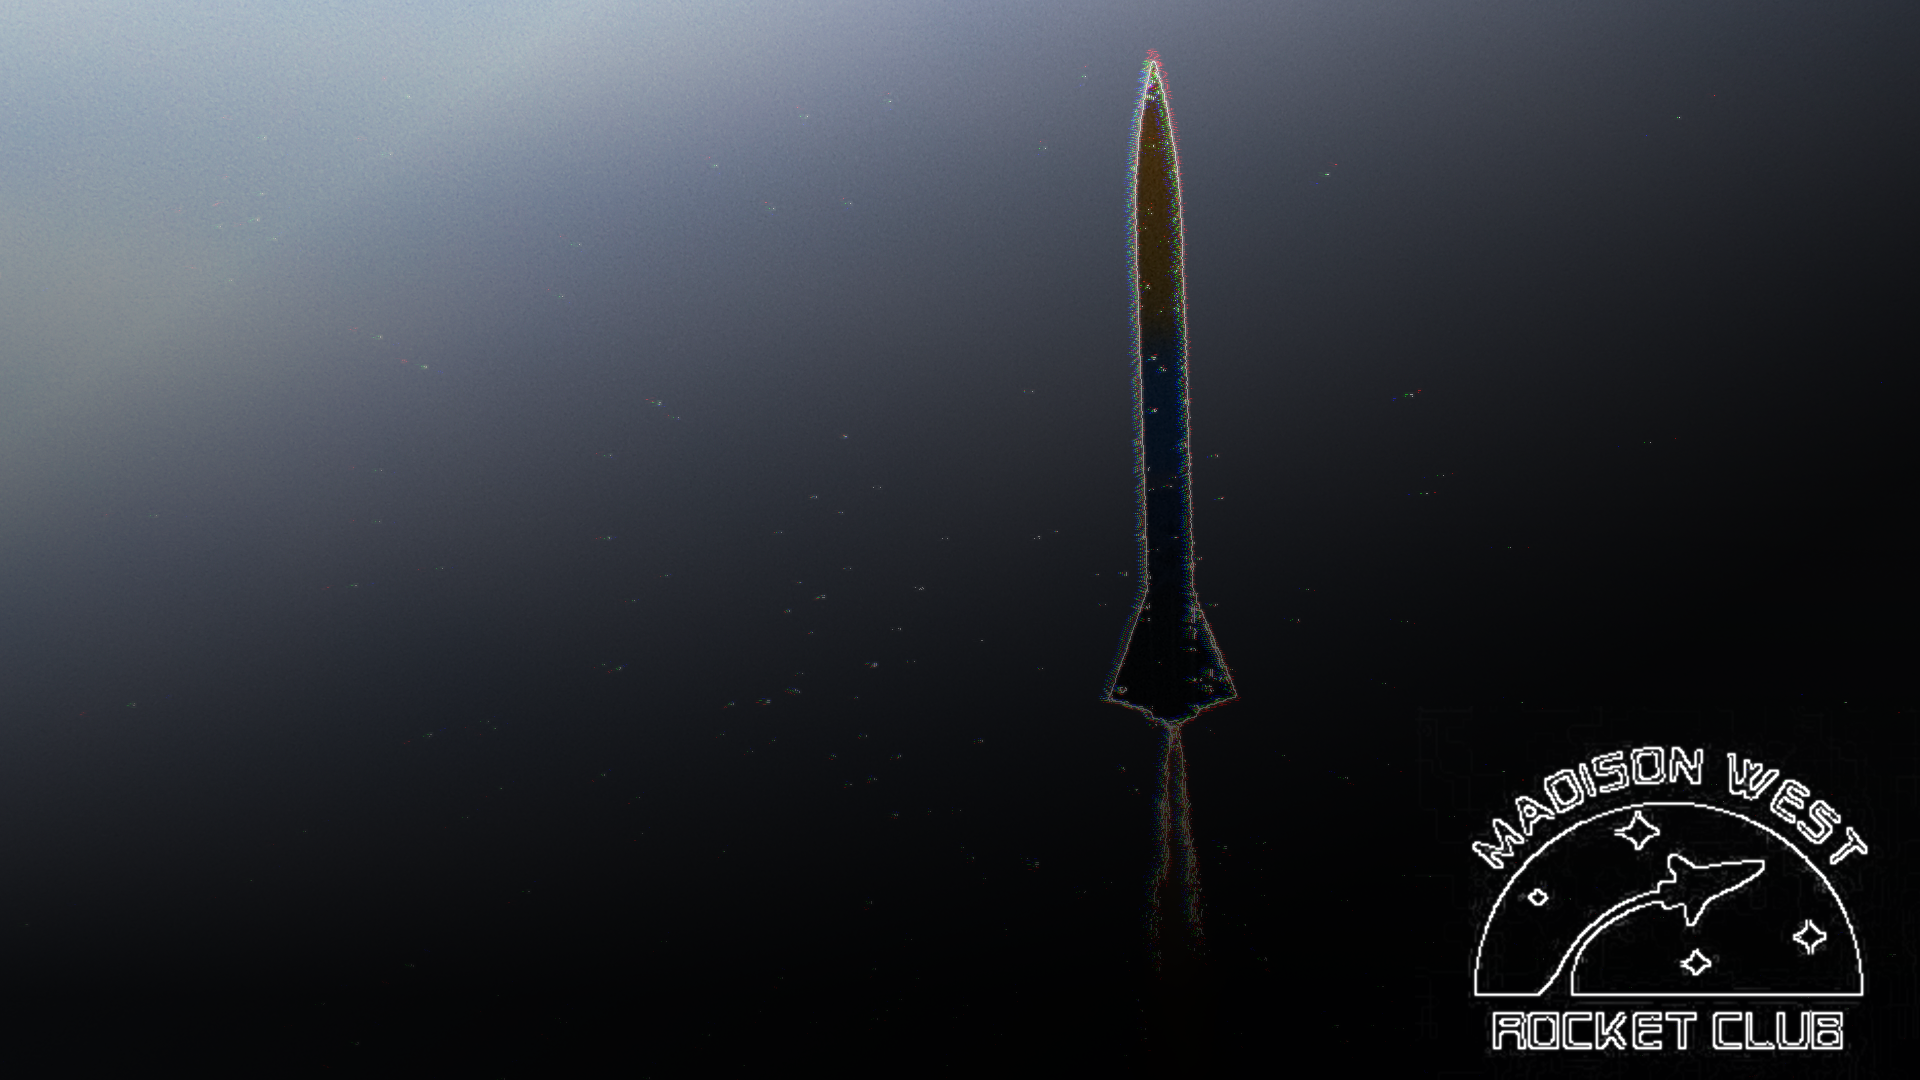
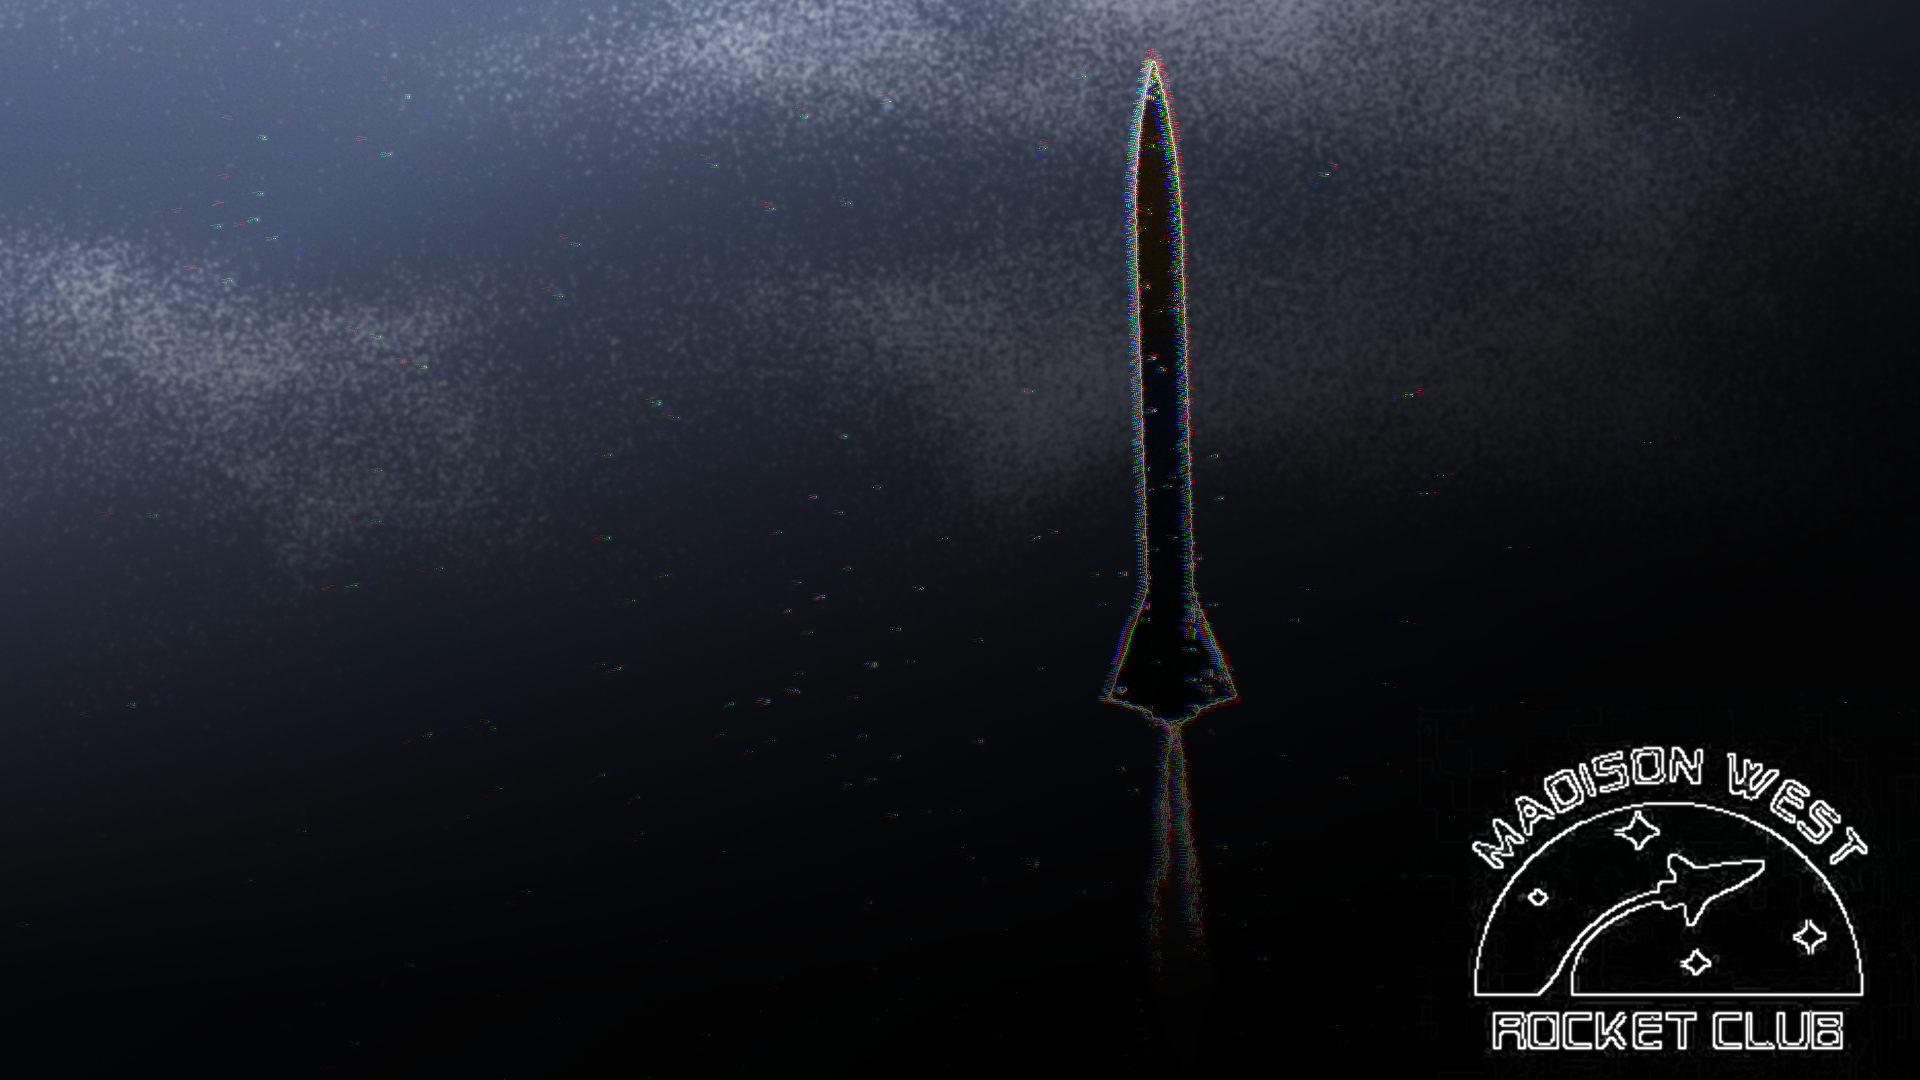
Update page styling

diff --git a/project.html b/project.html
@@ -9,15 +9,13 @@
 <link rel="stylesheet" href="./style/site.css">
 <link rel="stylesheet" href="./style/navbar.css">
 </head>
-<body bgColor="000000">
+<body bgColor="000000"  style='background-image : url("./images/sanding_club.png"); background-repeat: no-repeat;  background-position: 50% 0%; background-size: cover;'>
   <a href="/SL/" class="hoverable"><img src="./images/foambaffle-v2.png" width="85" style="padding-top:10px; padding-bottom:10px; padding-left:10px; padding-right:10px;"></a>
-
-  <div style="text-align:center;"> 
-    <img src="./images/sanding_club.png" width = 100% alt="hi fam">
+  <div style="position:relative;">
+    <h1>Project Plan and Roadmap</h1>
+    <p>
+      <div style="font-style:italic;">Still under construction...</div>
+    </p>
   </div>
-  <h1>Project Plan and Roadmap</h1>
-  <p>
-    <div style="font-style:italic;">Still under construction...</div>
-  </p>
 </body>
 </html>

diff --git a/style/site.css b/style/site.css
@@ -30,5 +30,5 @@ ul {
 }
 
 .hoverable :hover {
-    background-color : #1a1d27;
+    background-color : #1a1d277F;
 }
